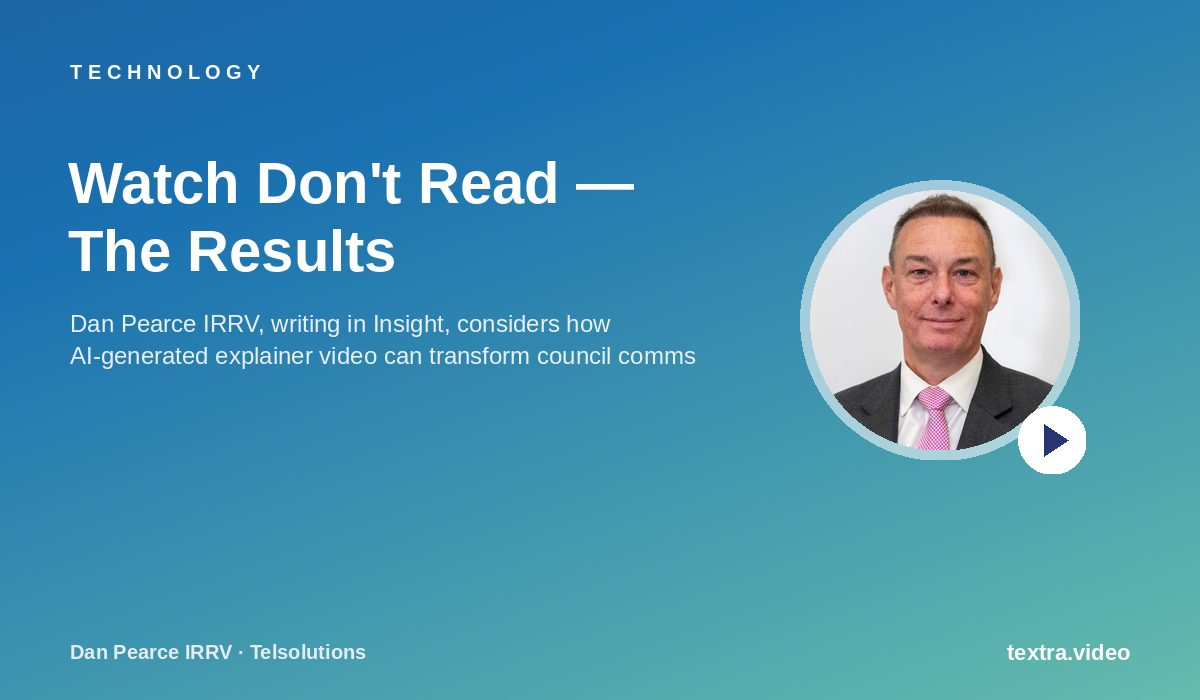
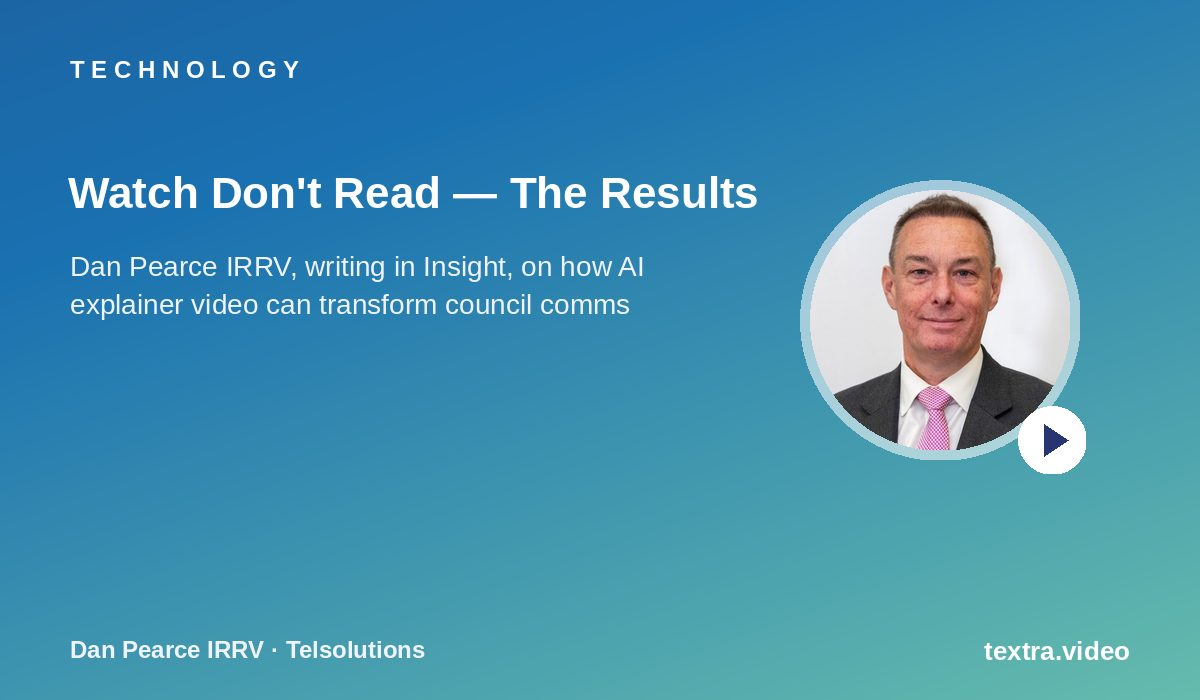
Fix card visual legibility and keep article title on one line
- Card: title now one line, kicker/subtitle/byline/wordmark sized up
  for legibility at listing-thumbnail size
- Article header: title no longer wraps mid-phrase on narrower widths

Claude-Session: https://claude.ai/code/session_016wbTmEf7bpTvn3RaFbq7aU

diff --git a/app/media/irrv-insight-watch-dont-read/page.tsx b/app/media/irrv-insight-watch-dont-read/page.tsx
@@ -128,7 +128,7 @@ export default function IRRVInsightWatchDontReadPost() {
             <div style={{ fontSize: 12, fontWeight: 700, letterSpacing: '0.12em', textTransform: 'uppercase', color: 'rgba(255,255,255,0.8)', marginBottom: 16 }}>
               Technology
             </div>
-            <h1 style={{ fontSize: 52, fontWeight: 900, lineHeight: 1.1, marginBottom: 24 }}>
+            <h1 style={{ fontSize: 'clamp(28px, 5.4vw, 52px)', fontWeight: 900, lineHeight: 1.1, marginBottom: 24, whiteSpace: 'nowrap' }}>
               Watch Don&apos;t Read — The Results
             </h1>
             <button
